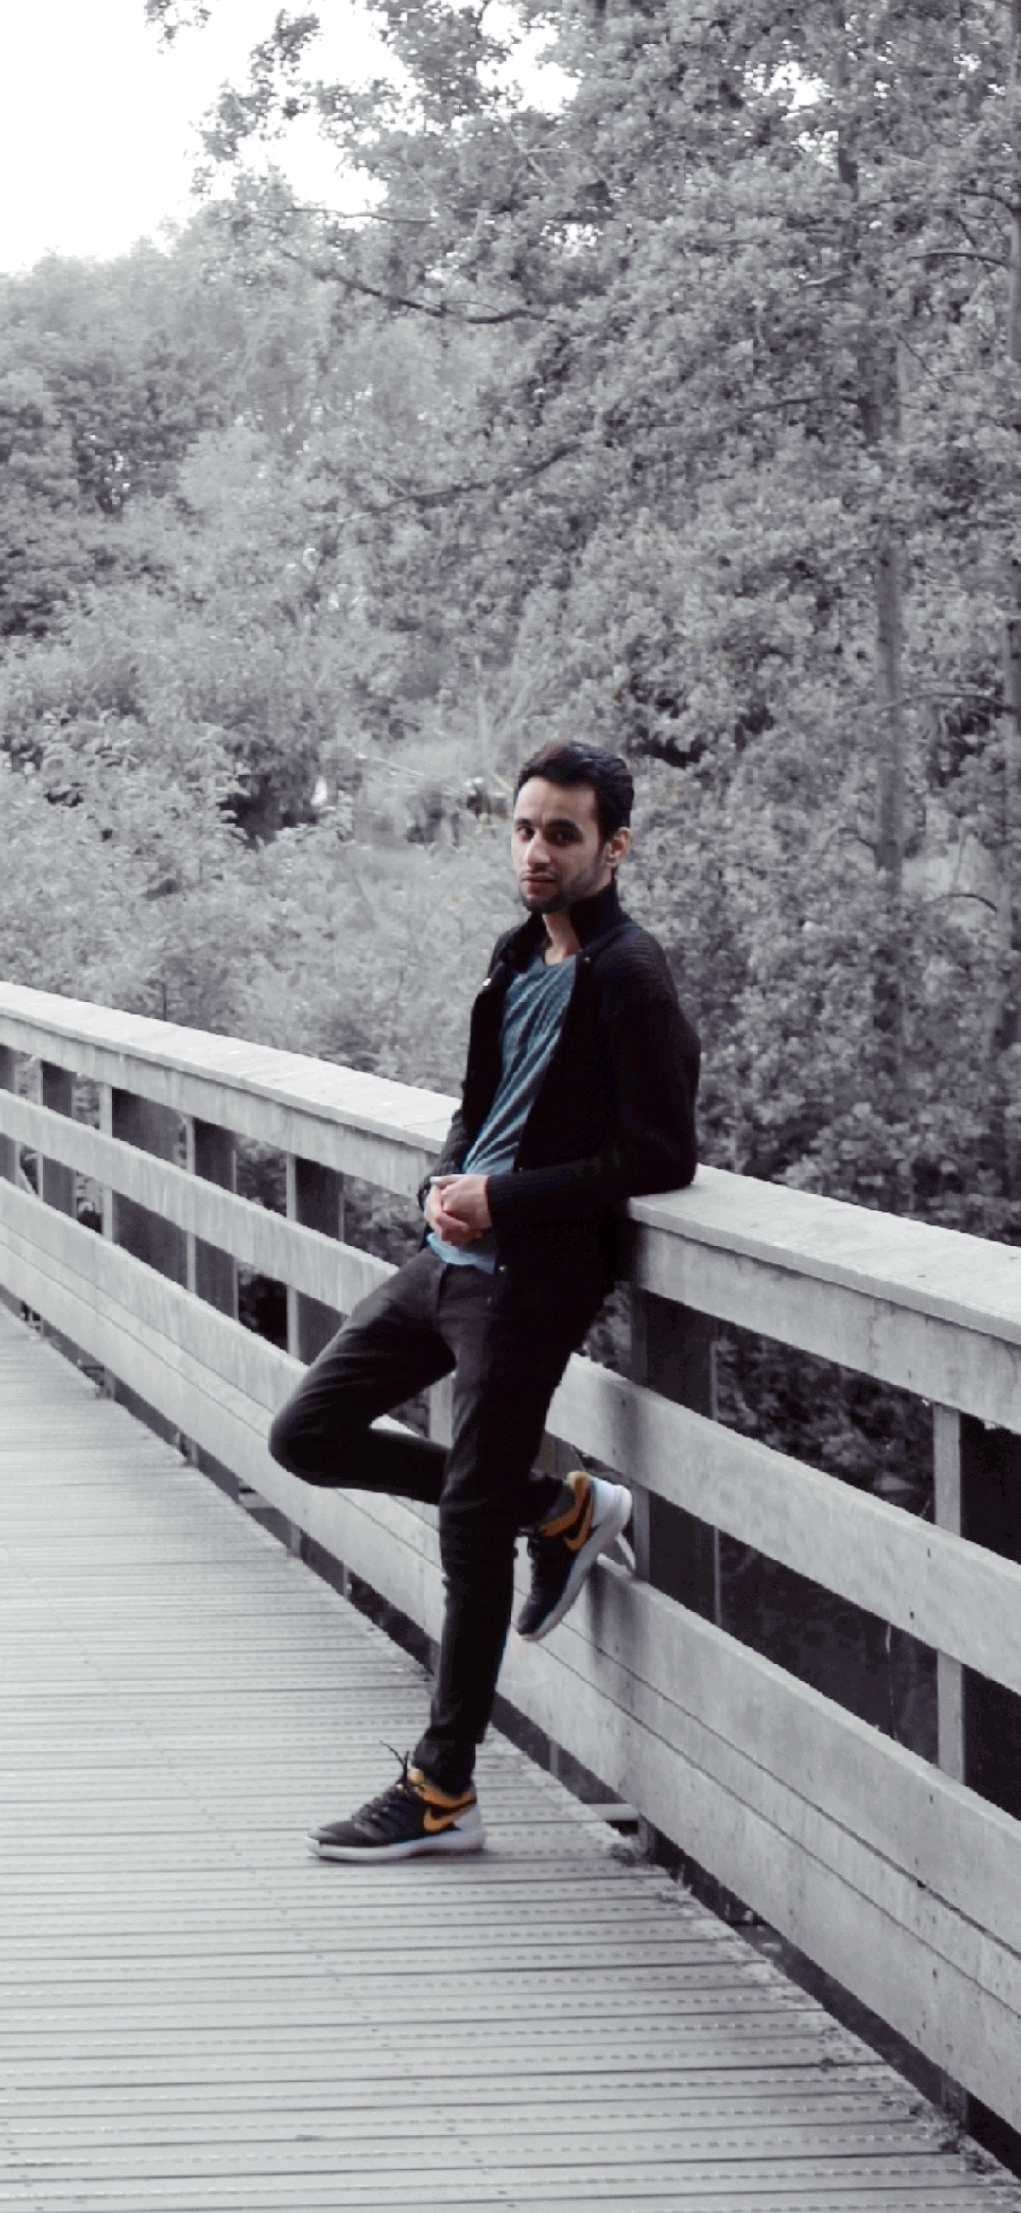
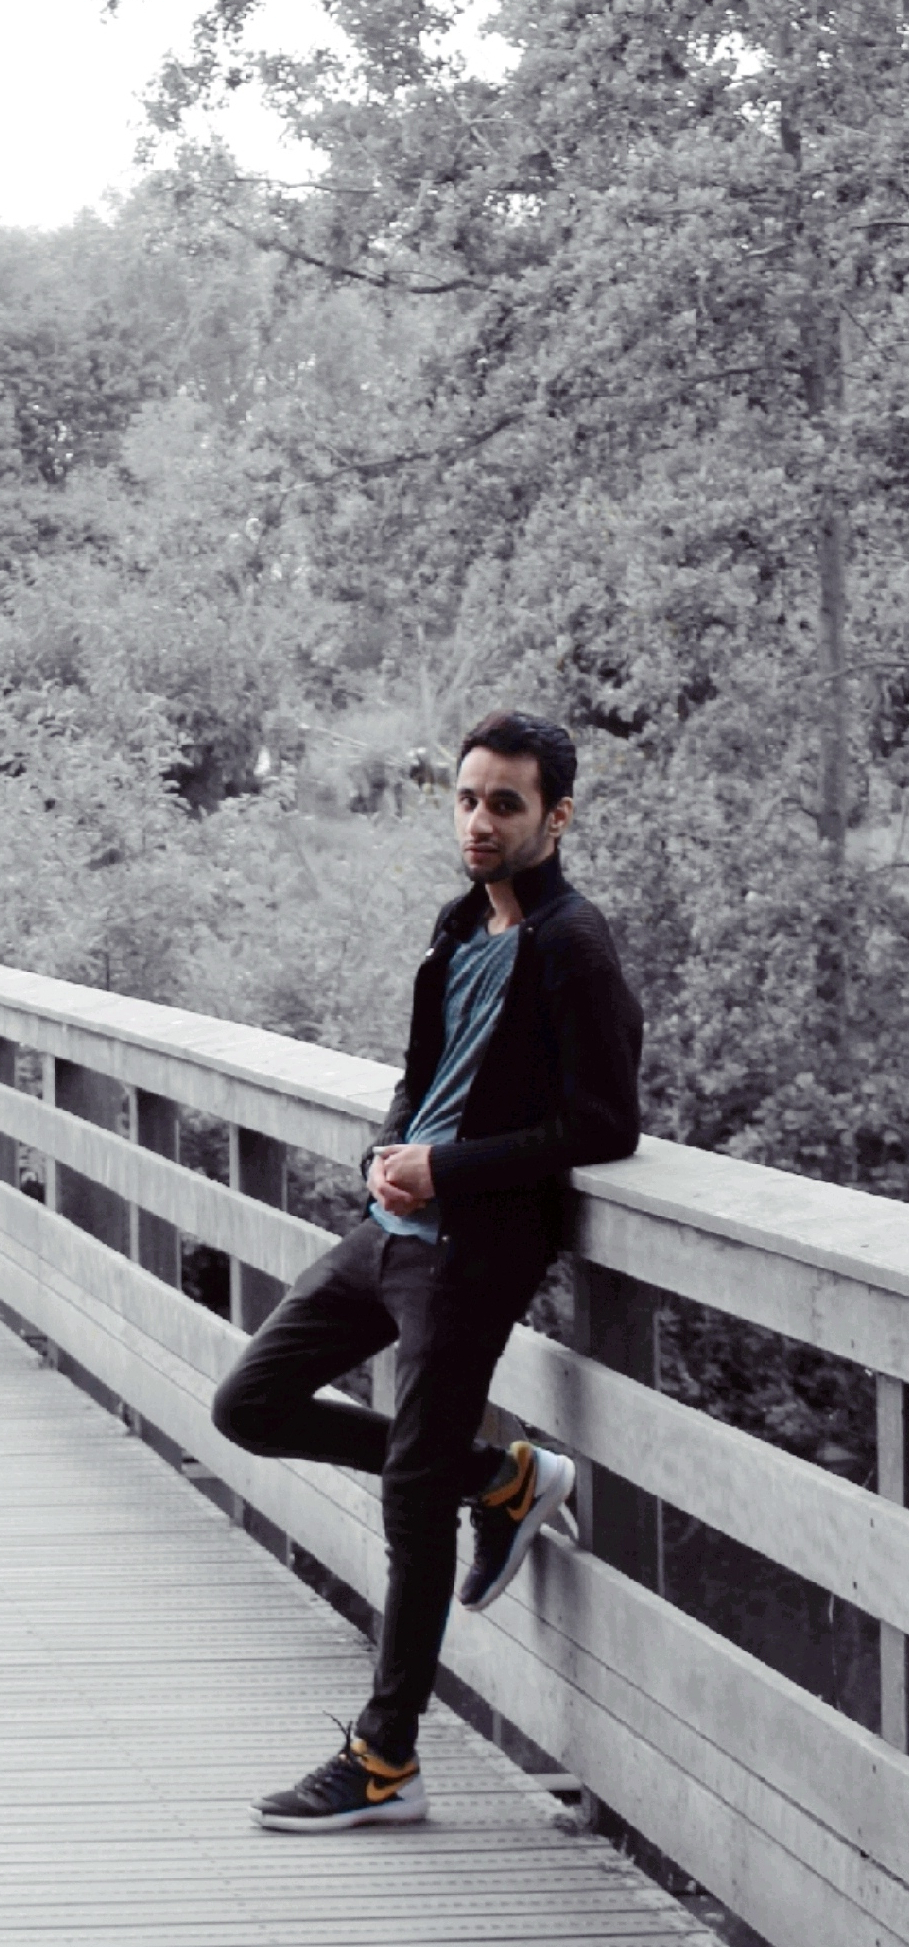
Update README.md

diff --git a/README.md b/README.md
@@ -2,7 +2,7 @@
 
 ---
 
-<img width="400" align='right' src="https://raw.githubusercontent.com/Timodz/Timodz/master/img/me.jpg">
+<img width="250" align='right' src="https://raw.githubusercontent.com/Timodz/Timodz/master/img/me.jpg">
 
 🔭 I’m currently doing a PhD in computer science, working on Spiking
 neural networks (SNNs) and their interactive analytics. <br><br>
@@ -21,6 +21,7 @@ of those presentations content.
 <br><br>
 I was a part of the previous [Guinness world record]([https://link](https://www.guinnessworldrecords.com/news/commercial/2018/8/thousands-of-software-developers-from-100-countries-attend-record-breaking-hackat-537231)) of the Most participants in a
 hackathon (2018)
+<br><br><br><br>
 <p align='center'>
 <a href="https://www.linkedin.com/in/elbez-hammouda/"><img height="30" src="https://raw.githubusercontent.com/Timodz/Timodz/master/img/linkedin.png"></a>
 &nbsp;&nbsp;
